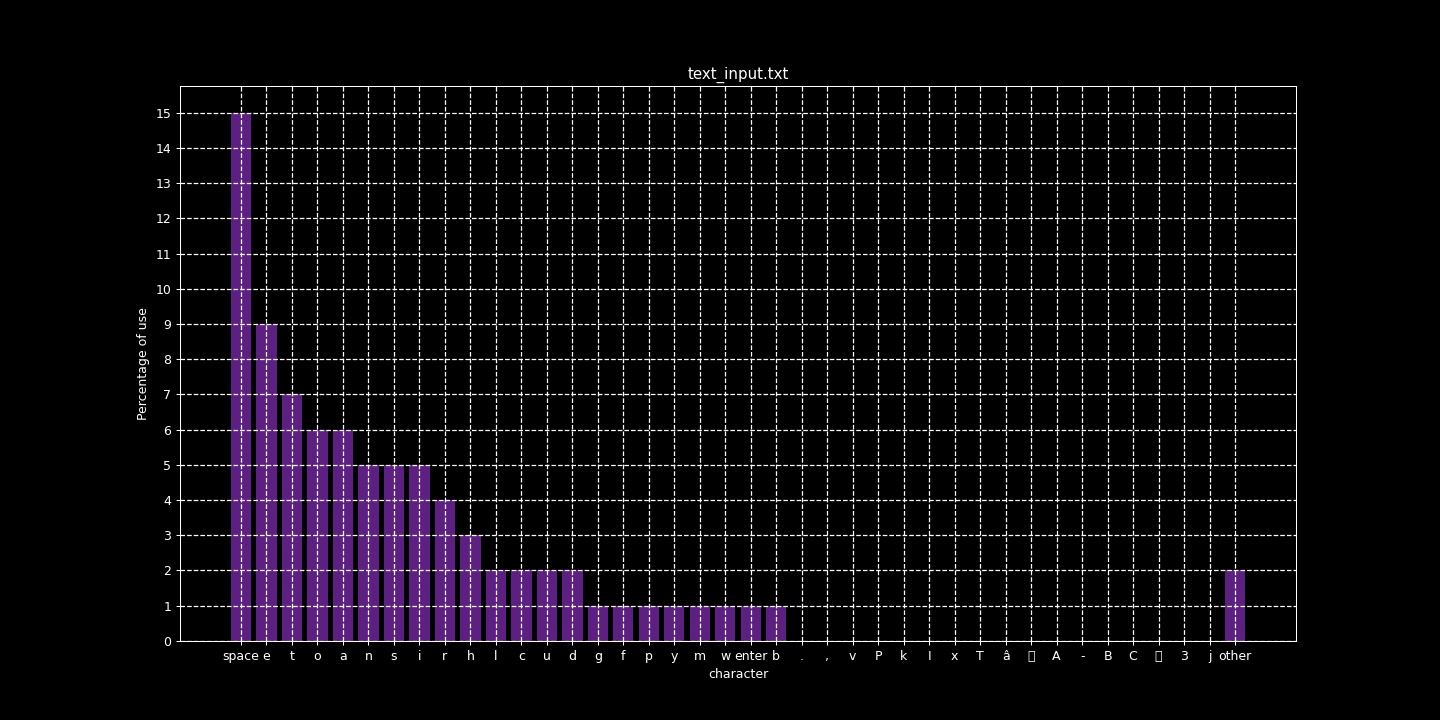
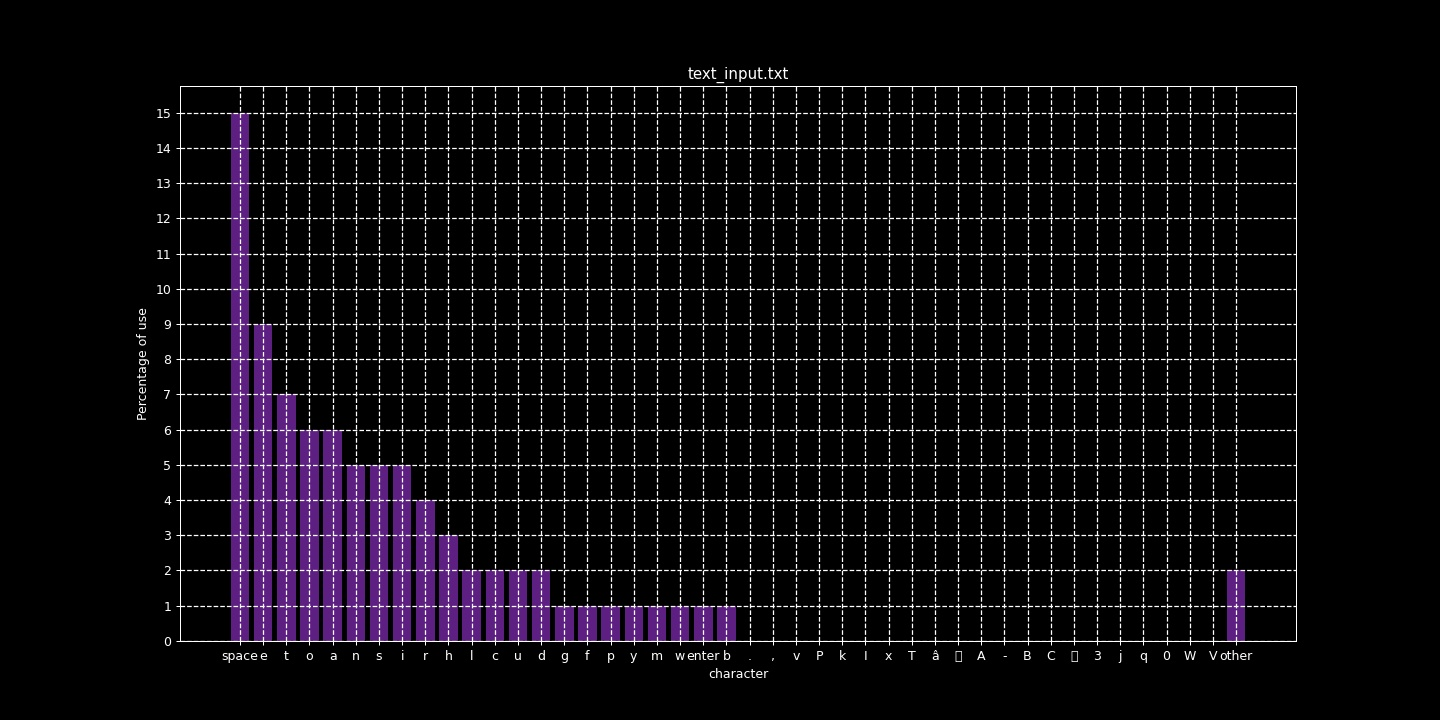
add logging

Changed region(s): [[0.1562, 0.1222, 0.875, 0.9167]]

diff --git a/app.py b/app.py
@@ -1,13 +1,12 @@
 import os
-from typing import Counter
-
 import numpy as np
 
+from typing import Counter
 from matplotlib import pyplot as plt
 from datetime import datetime
 
 from config import *
-
+from initialize_logger import error_logger, info_logger
 
 def time_decorator(func):
     def wrapper(*args, **kwargs):
@@ -15,11 +14,11 @@ def time_decorator(func):
         result = func(*args, **kwargs)
         if print_time_for_main_only and time_decorator_work:
             if func.__name__ == "main":
-                print(
+                info_logger.info(
                     str(datetime.now() - start_time).split(":")[2] + " " + func.__name__
                 )
         elif time_decorator_work:
-            print(str(datetime.now() - start_time).split(":")[2] + " " + func.__name__)
+            info_logger.info(str(datetime.now() - start_time).split(":")[2] + " " + func.__name__)
 
         return result
 
@@ -33,13 +32,13 @@ def open_file():
         input_data.append(os.listdir(input_text_path)[0])
         input_text_file = input_data[0]
     except IndexError:
-        print(f"Put some files in {input_text_path} folder")
+        error_logger.error(f"Put some files in {input_text_path} folder")
     except FileNotFoundError:
-        print(f"There is not {input_text_path} folder. Create it")
+        error_logger.error(f"There is not {input_text_path} folder. Create it")
     except:
-        print("Incorrect input data")
+        error_logger.error("Incorrect input data")
 
-    if input_text_file:
+    if input_data:
         splited_input_text_file = input_text_file.split(".")
         if splited_input_text_file[len(splited_input_text_file) - 1] == "txt":
             try:
@@ -48,22 +47,21 @@ def open_file():
                 )
                 input_text = input_data[1]
                 if len(input_text) > 2:
-                    print(f"{input_text_path}/{input_text_file} opened successfuly")
+                    info_logger.info(f"{input_text_path}/{input_text_file} opened successfuly")
                     return input_data
                 else:
-                    print("the entered text must be at least 3 characters")
+                    error_logger.error("the entered text must be at least 3 characters")
 
             except FileNotFoundError:
-                print("FileNotFoundError")
+                error_logger.error("FileNotFoundError")
             except:
-                print("Incorrect input file")
+                error_logger.error("Incorrect input file")
         else:
-            print("Incorrect input file format. It must be in .txt format")
+            error_logger.error("Incorrect input file format. It must be in .txt format")
 
 
 @time_decorator
 def gen_statistic(input_text):
-    print(len(input_text))
     statistic = Counter(input_text)
     statistic_sorted = dict(
         sorted(statistic.items(), key=lambda item: item[1], reverse=True)
@@ -143,8 +141,8 @@ def matplotlib_visualisation(
     ax.grid(linestyle="dashed", linewidth=1)
     if save_statistic_visualisation:
         plt.savefig(f"statistic_visualisations/{file_name}_statistic_visualisation.jpg")
-
-    plt.show()
+    if show_statistic_visualisation:
+        plt.show()
 
 
 @time_decorator
@@ -154,11 +152,11 @@ def main():
         result = gen_statistic(input_data[1])
         if print_statistic_to_console:
             print(gen_str(dict_input=result, input_text_len=len(input_data[1])))
-        if show_statistic_visualisation:
+        if calculate_statistic_visualisation:
             matplotlib_visualisation(
                 result,
                 input_data[0],
-                num_of_horizontal_divisions=40,
+                num_of_horizontal_divisions=44,
                 num_of_vertical_divisions=40,
             )
 

diff --git a/initialize_logger.py b/initialize_logger.py
@@ -1,0 +1,23 @@
+import logging
+from logging import Formatter
+
+
+info_log_format = "%(message)s"
+error_log_format = "[%(levelname)s]: %(message)s"
+
+info_logger = logging.getLogger(name="penguin")
+info_logger.setLevel(logging.INFO)
+
+error_logger = logging.getLogger(name="kaban")
+error_logger.setLevel(logging.ERROR)
+
+info_console_handler = logging.StreamHandler()
+info_console_handler.setLevel(logging.INFO)
+info_console_handler.setFormatter(Formatter(info_log_format))
+
+error_console_handler = logging.StreamHandler()
+error_console_handler.setLevel(logging.ERROR)
+error_console_handler.setFormatter(Formatter(error_log_format))
+
+error_logger.addHandler(error_console_handler)
+info_logger.addHandler(info_console_handler)

diff --git a/config.py b/config.py
@@ -3,6 +3,8 @@
 input_text_path = "input_text"
 
 print_statistic_to_console = True
+
+calculate_statistic_visualisation = True
 show_statistic_visualisation = True
 save_statistic_visualisation = True
 
